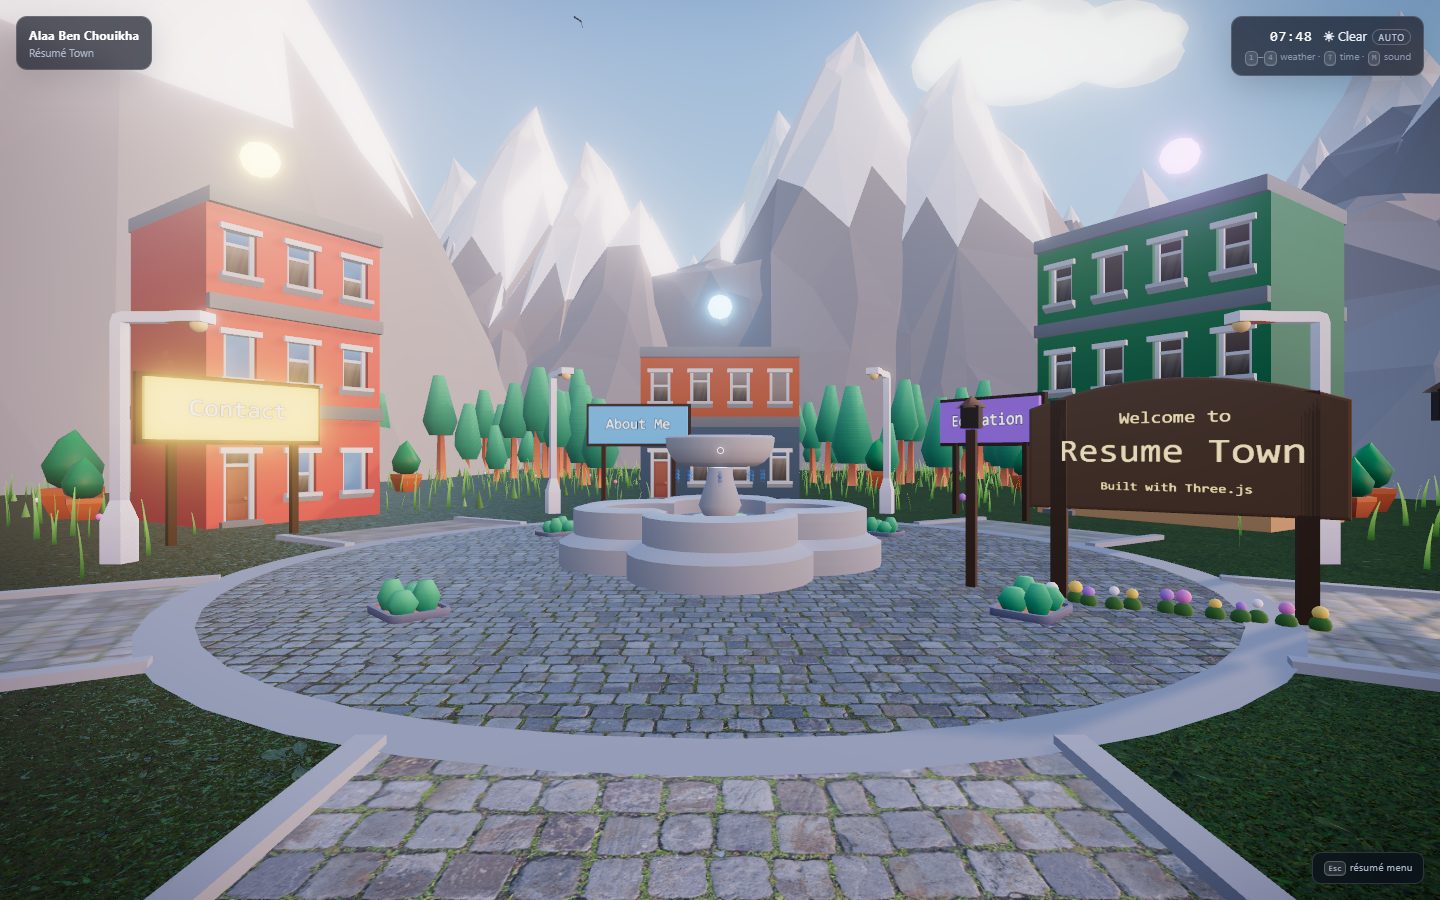
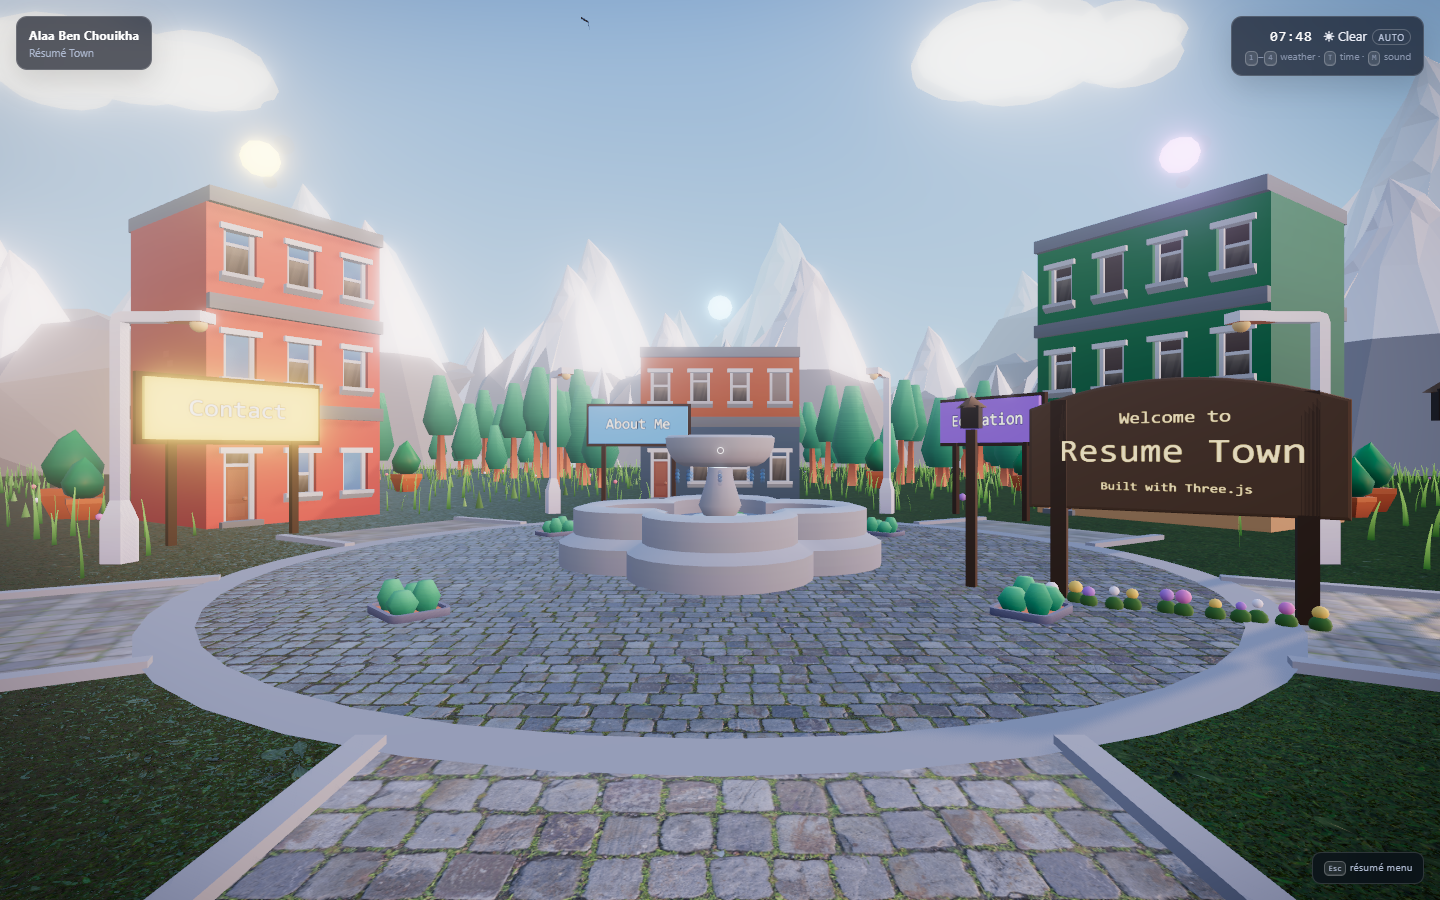
Add daytime butterflies drifting over the lawn
Butterflies component: a dozen flapping butterflies in looping paths, visible
in calm daylight (hidden in rain/snow/night, like the birds).

diff --git a/src/components/Butterflies.tsx b/src/components/Butterflies.tsx
@@ -1,0 +1,90 @@
+import { useMemo, useRef } from "react";
+import { useFrame } from "@react-three/fiber";
+import * as THREE from "three";
+import { atm } from "../atmosphere";
+import { mulberry32 } from "../rand";
+
+const COUNT = 12;
+const COLORS = ["#ef7fae", "#f6c445", "#7fb7f2", "#b98fe5", "#ff9b54", "#f2f2f2"];
+
+interface Fly {
+  cx: number;
+  cz: number;
+  baseY: number;
+  rx: number;
+  rz: number;
+  speed: number;
+  phase: number;
+  color: string;
+}
+
+// Daytime butterflies drifting over the lawn in looping paths, wings flapping.
+// They fold away in rain, snow and at night (same calm-daylight rule as birds).
+function Butterfly({ fly }: { fly: Fly }) {
+  const groupRef = useRef<THREE.Group>(null);
+  const leftRef = useRef<THREE.Mesh>(null);
+  const rightRef = useRef<THREE.Mesh>(null);
+
+  useFrame((state) => {
+    const g = groupRef.current;
+    if (!g) return;
+    const t = state.clock.elapsedTime * fly.speed + fly.phase;
+    const x = fly.cx + Math.sin(t) * fly.rx;
+    const z = fly.cz + Math.cos(t * 0.8) * fly.rz;
+    const y = fly.baseY + Math.sin(t * 2.3 + fly.phase) * 0.5;
+    g.position.set(x, y, z);
+    // face the direction of travel
+    g.rotation.y = Math.atan2(Math.cos(t) * fly.rx * fly.speed, -Math.sin(t * 0.8) * fly.rz * 0.8 * fly.speed);
+    const flap = Math.sin(state.clock.elapsedTime * 14 + fly.phase) * 1.1 + 0.2;
+    if (leftRef.current) leftRef.current.rotation.y = flap;
+    if (rightRef.current) rightRef.current.rotation.y = -flap;
+  });
+
+  return (
+    <group ref={groupRef}>
+      <mesh ref={leftRef} position={[-0.001, 0, 0]}>
+        <planeGeometry args={[0.16, 0.22]} />
+        <meshStandardMaterial color={fly.color} side={THREE.DoubleSide} roughness={0.6} emissive={fly.color} emissiveIntensity={0.15} />
+      </mesh>
+      <mesh ref={rightRef} position={[0.001, 0, 0]}>
+        <planeGeometry args={[0.16, 0.22]} />
+        <meshStandardMaterial color={fly.color} side={THREE.DoubleSide} roughness={0.6} emissive={fly.color} emissiveIntensity={0.15} />
+      </mesh>
+    </group>
+  );
+}
+
+export default function Butterflies() {
+  const groupRef = useRef<THREE.Group>(null);
+  const flies = useMemo<Fly[]>(() => {
+    const rng = mulberry32(314);
+    return Array.from({ length: COUNT }, (_, i) => {
+      const angle = rng() * Math.PI * 2;
+      const dist = 6 + rng() * 16;
+      return {
+        cx: Math.sin(angle) * dist,
+        cz: Math.cos(angle) * dist,
+        baseY: 0.8 + rng() * 1.6,
+        rx: 1.5 + rng() * 2.5,
+        rz: 1.5 + rng() * 2.5,
+        speed: 0.5 + rng() * 0.7,
+        phase: rng() * Math.PI * 2,
+        color: COLORS[i % COLORS.length],
+      };
+    });
+  }, []);
+
+  useFrame(() => {
+    const g = groupRef.current;
+    if (!g) return;
+    g.visible = atm.day > 0.35 && atm.rain < 0.25 && atm.snow < 0.25;
+  });
+
+  return (
+    <group ref={groupRef}>
+      {flies.map((fly, i) => (
+        <Butterfly key={i} fly={fly} />
+      ))}
+    </group>
+  );
+}

diff --git a/src/components/Outdoor.tsx b/src/components/Outdoor.tsx
@@ -18,6 +18,7 @@ import Rain from "./Rain";
 import Snow from "./Snow";
 import LightningBolt from "./LightningBolt";
 import Fireflies from "./Fireflies";
+import Butterflies from "./Butterflies";
 import { buildings } from "../content";
 
 function PlazaGarden() {
@@ -67,6 +68,7 @@ export default function Outdoor() {
       <Snow />
       <LightningBolt />
       <Fireflies />
+      <Butterflies />
       {buildings.map((def) => (
         <Building key={def.id} def={def} />
       ))}
